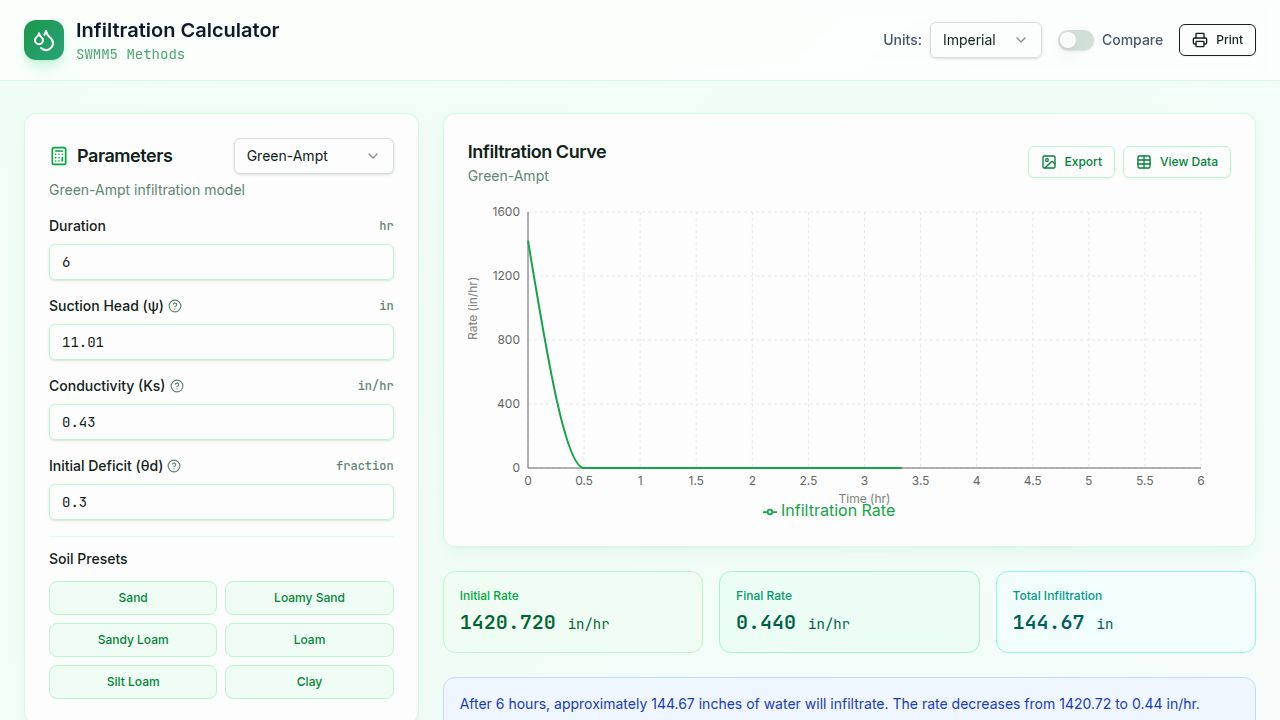
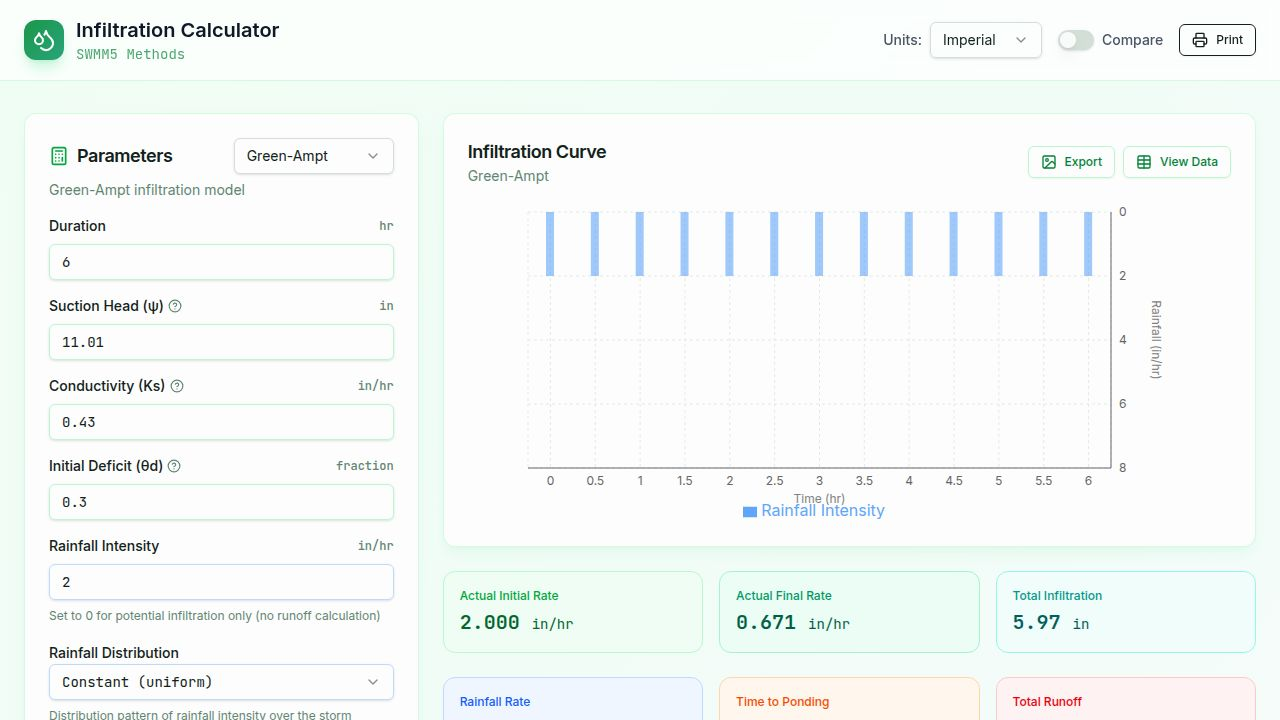
Update chart to display rainfall in comparison mode
Modify chart data calculation to include rainfall intensity when in comparison mode and adjust hasRainfall logic to check all scenarios.

Replit-Commit-Author: Agent
Replit-Commit-Session-Id: fcd8bc20-0aad-4c23-96ed-82758879ac2e
Replit-Commit-Checkpoint-Type: full_checkpoint
Replit-Commit-Event-Id: 8ba78021-ee17-41f7-ba3a-c8f643cce9f6
Replit-Commit-Screenshot-Url: https://storage.googleapis.com/screenshot-production-us-central1/6bc7c7ac-41c7-49ea-9cd7-bd4bc385df62/fcd8bc20-0aad-4c23-96ed-82758879ac2e/pp2GWpj
Replit-Helium-Checkpoint-Created: true

diff --git a/client/src/pages/green-ampt.tsx b/client/src/pages/green-ampt.tsx
@@ -481,13 +481,18 @@ export default function GreenAmptPage() {
         }
       }
       const point: any = { time };
+      let maxRainfallIntensity = 0;
       scenarios.forEach((s, idx) => {
         const dataPoint = calculatedResults[idx]?.data[i];
         if (dataPoint) {
           point[`capacity_${idx}`] = dataPoint.infiltrationRate;
           point[`actual_${idx}`] = dataPoint.actualInfiltrationRate;
+          if (dataPoint.rainfallIntensity !== undefined && dataPoint.rainfallIntensity > maxRainfallIntensity) {
+            maxRainfallIntensity = dataPoint.rainfallIntensity;
+          }
         }
       });
+      point.rainfallIntensity = maxRainfallIntensity;
       combined.push(point);
     }
     return combined;
@@ -648,7 +653,9 @@ export default function GreenAmptPage() {
   const current = scenarios[activeScenarioIndex];
   const currentResult = calculatedResults[activeScenarioIndex];
   const currentData = currentResult?.data || [];
-  const hasRainfall = (current.method === "greenAmpt" || current.method === "modifiedGreenAmpt") && current.rainfallRate > 0;
+  const hasRainfall = comparisonMode 
+    ? scenarios.some(s => (s.method === "greenAmpt" || s.method === "modifiedGreenAmpt") && s.rainfallRate > 0)
+    : (current.method === "greenAmpt" || current.method === "modifiedGreenAmpt") && current.rainfallRate > 0;
 
   const renderParameterInputs = () => {
     const params = scenarios[activeScenarioIndex];
